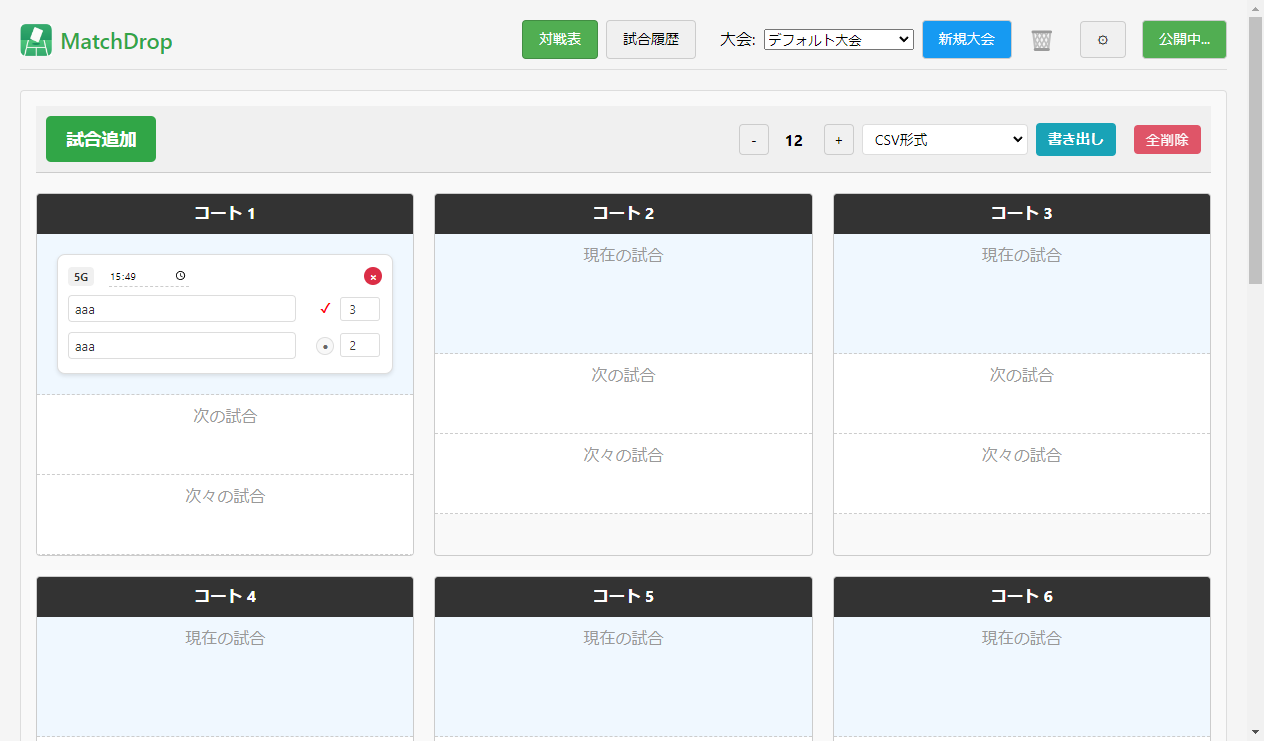
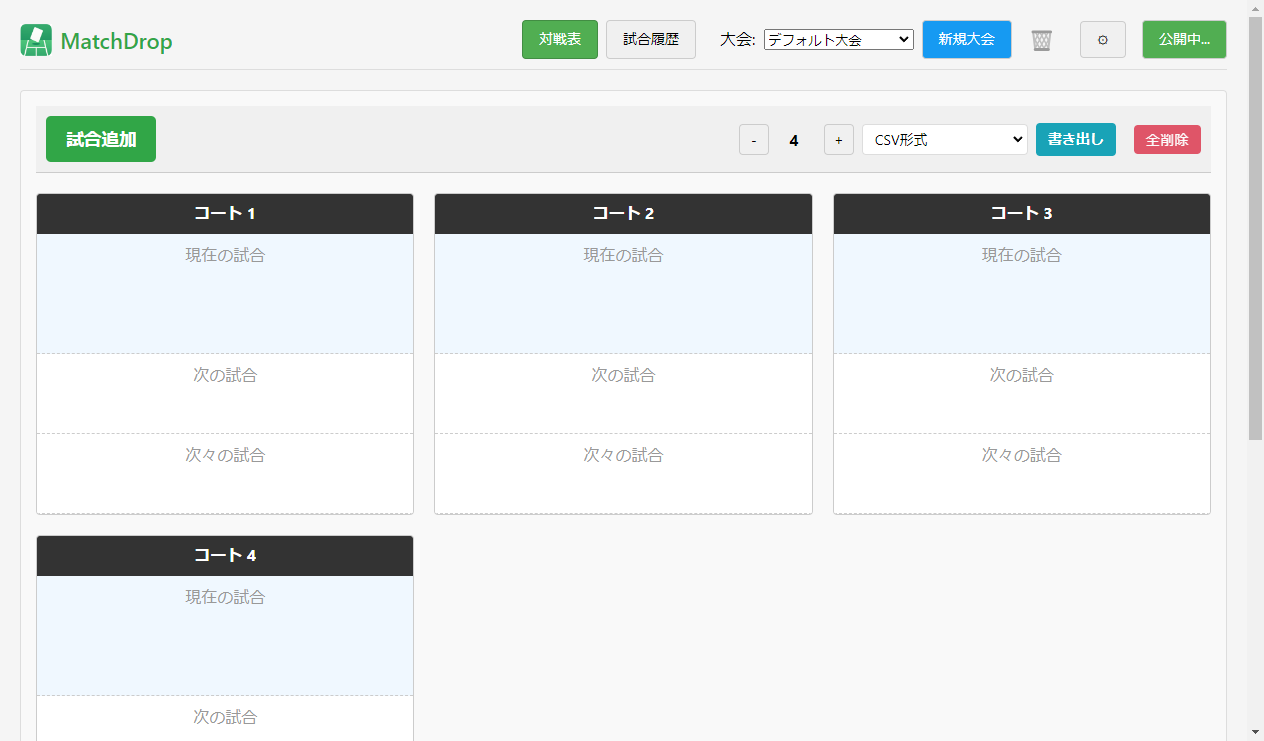
auto: deploy static site 2025-07-16T07:02:03.737Z

diff --git a/board-view.html b/board-view.html
@@ -5,7 +5,7 @@
           <button id="add-match-btn" class="add-match-btn-prominent" style="pointer-events: auto; cursor: pointer; opacity: 1;">試合追加</button>
           <div class="court-count-controls" style="margin-left:auto; margin-right:8px;">
             <button id="decrease-courts-btn">-</button>
-            <span id="court-count-display" class="court-count-display">12</span>
+            <span id="court-count-display" class="court-count-display">4</span>
             <button id="increase-courts-btn">+</button>
           </div>
           
@@ -20,7 +20,7 @@
           
           <button id="delete-all-matches-btn" class="delete-all-btn">全削除</button>
       </div>
-      <div id="court-grid" class="court-grid"><div class="court-slot" data-court-number="1"><div class="court-header"><span class="court-name-edit" data-court-number="1">コート 1</span></div><div class="court-rows"><div class="court-row current-row" data-row-type="current"><div class="row-placeholder" style="display: none;">現在の試合</div><div class="card-container"><div class="match-card" id="match-1" draggable="true" data-match-id="1"><div class="match-card-header"><span class="delete-button" title="この試合を削除">×</span><div class="match-card-game-format-display" title="試合形式は変更できません。変更する場合は新規に試合を作成してください。ダブルクリックで試合を完了して履歴に移動します。">5G</div><input type="time" class="match-end-time-input"></div><div class="match-card-players-container"><div class="match-card-player"><input type="text" class="player-name-input" data-player="A"><div style="display: flex; align-items: center; gap: 4px; margin-left: auto;"><div class="win-label win-check" data-player="A" style="color: red; font-weight: bold;">✔</div><div style="display: flex; flex-direction: column; align-items: center; gap: 2px;"><input type="number" min="0" max="99" class="score-input" data-player="A"></div></div></div><div class="match-card-player"><input type="text" class="player-name-input" data-player="B"><div style="display: flex; align-items: center; gap: 4px; margin-left: auto;"><div class="win-label win-button" data-player="B">●</div><div style="display: flex; flex-direction: column; align-items: center; gap: 2px;"><input type="number" min="0" max="99" class="score-input" data-player="B"><div class="tiebreak-score-container-b" style="display: inline-block;"></div></div></div></div><div class="tiebreak-row" style="display: none; justify-content: flex-end; gap: 8px; margin-left: auto;"><span style="display: none;"><div class="tiebreak-score-container-a" style="display: inline-block; margin-top: 2px;"><span style="font-size: 0.8em;">(</span><input type="number" min="0" max="99" class="tiebreak-score-input" data-tiebreak="A" placeholder="TB" tabindex="0" style="width: 40px; height: 20px; font-size: 0.8em; padding: 0px 2px; pointer-events: auto; cursor: text;"><span style="font-size: 0.8em;">)</span></div></span></div></div></div></div></div><div class="court-row next-row" data-row-type="next"><div class="row-placeholder">次の試合</div><div class="card-container"></div></div><div class="court-row next2-row" data-row-type="next2"><div class="row-placeholder">次々の試合</div><div class="card-container"></div></div></div></div><div class="court-slot" data-court-number="2"><div class="court-header"><span class="court-name-edit" data-court-number="2">コート 2</span></div><div class="court-rows"><div class="court-row current-row" data-row-type="current"><div class="row-placeholder">現在の試合</div><div class="card-container"></div></div><div class="court-row next-row" data-row-type="next"><div class="row-placeholder">次の試合</div><div class="card-container"></div></div><div class="court-row next2-row" data-row-type="next2"><div class="row-placeholder">次々の試合</div><div class="card-container"></div></div></div></div><div class="court-slot" data-court-number="3"><div class="court-header"><span class="court-name-edit" data-court-number="3">コート 3</span></div><div class="court-rows"><div class="court-row current-row" data-row-type="current"><div class="row-placeholder">現在の試合</div><div class="card-container"></div></div><div class="court-row next-row" data-row-type="next"><div class="row-placeholder">次の試合</div><div class="card-container"></div></div><div class="court-row next2-row" data-row-type="next2"><div class="row-placeholder">次々の試合</div><div class="card-container"></div></div></div></div><div class="court-slot" data-court-number="4"><div class="court-header"><span class="court-name-edit" data-court-number="4">コート 4</span></div><div class="court-rows"><div class="court-row current-row" data-row-type="current"><div class="row-placeholder">現在の試合</div><div class="card-container"></div></div><div class="court-row next-row" data-row-type="next"><div class="row-placeholder">次の試合</div><div class="card-container"></div></div><div class="court-row next2-row" data-row-type="next2"><div class="row-placeholder">次々の試合</div><div class="card-container"></div></div></div></div><div class="court-slot" data-court-number="5"><div class="court-header"><span class="court-name-edit" data-court-number="5">コート 5</span></div><div class="court-rows"><div class="court-row current-row" data-row-type="current"><div class="row-placeholder">現在の試合</div><div class="card-container"></div></div><div class="court-row next-row" data-row-type="next"><div class="row-placeholder">次の試合</div><div class="card-container"></div></div><div class="court-row next2-row" data-row-type="next2"><div class="row-placeholder">次々の試合</div><div class="card-container"></div></div></div></div><div class="court-slot" data-court-number="6"><div class="court-header"><span class="court-name-edit" data-court-number="6">コート 6</span></div><div class="court-rows"><div class="court-row current-row" data-row-type="current"><div class="row-placeholder">現在の試合</div><div class="card-container"></div></div><div class="court-row next-row" data-row-type="next"><div class="row-placeholder">次の試合</div><div class="card-container"></div></div><div class="court-row next2-row" data-row-type="next2"><div class="row-placeholder">次々の試合</div><div class="card-container"></div></div></div></div><div class="court-slot" data-court-number="7"><div class="court-header"><span class="court-name-edit" data-court-number="7">コート 7</span></div><div class="court-rows"><div class="court-row current-row" data-row-type="current"><div class="row-placeholder">現在の試合</div><div class="card-container"></div></div><div class="court-row next-row" data-row-type="next"><div class="row-placeholder">次の試合</div><div class="card-container"></div></div><div class="court-row next2-row" data-row-type="next2"><div class="row-placeholder">次々の試合</div><div class="card-container"></div></div></div></div><div class="court-slot" data-court-number="8"><div class="court-header"><span class="court-name-edit" data-court-number="8">コート 8</span></div><div class="court-rows"><div class="court-row current-row" data-row-type="current"><div class="row-placeholder">現在の試合</div><div class="card-container"></div></div><div class="court-row next-row" data-row-type="next"><div class="row-placeholder">次の試合</div><div class="card-container"></div></div><div class="court-row next2-row" data-row-type="next2"><div class="row-placeholder">次々の試合</div><div class="card-container"></div></div></div></div><div class="court-slot" data-court-number="9"><div class="court-header"><span class="court-name-edit" data-court-number="9">コート 9</span></div><div class="court-rows"><div class="court-row current-row" data-row-type="current"><div class="row-placeholder">現在の試合</div><div class="card-container"></div></div><div class="court-row next-row" data-row-type="next"><div class="row-placeholder">次の試合</div><div class="card-container"></div></div><div class="court-row next2-row" data-row-type="next2"><div class="row-placeholder">次々の試合</div><div class="card-container"></div></div></div></div><div class="court-slot" data-court-number="10"><div class="court-header"><span class="court-name-edit" data-court-number="10">コート 10</span></div><div class="court-rows"><div class="court-row current-row" data-row-type="current"><div class="row-placeholder">現在の試合</div><div class="card-container"></div></div><div class="court-row next-row" data-row-type="next"><div class="row-placeholder">次の試合</div><div class="card-container"></div></div><div class="court-row next2-row" data-row-type="next2"><div class="row-placeholder">次々の試合</div><div class="card-container"></div></div></div></div><div class="court-slot" data-court-number="11"><div class="court-header"><span class="court-name-edit" data-court-number="11">コート 11</span></div><div class="court-rows"><div class="court-row current-row" data-row-type="current"><div class="row-placeholder">現在の試合</div><div class="card-container"></div></div><div class="court-row next-row" data-row-type="next"><div class="row-placeholder">次の試合</div><div class="card-container"></div></div><div class="court-row next2-row" data-row-type="next2"><div class="row-placeholder">次々の試合</div><div class="card-container"></div></div></div></div><div class="court-slot" data-court-number="12"><div class="court-header"><span class="court-name-edit" data-court-number="12">コート 12</span></div><div class="court-rows"><div class="court-row current-row" data-row-type="current"><div class="row-placeholder">現在の試合</div><div class="card-container"></div></div><div class="court-row next-row" data-row-type="next"><div class="row-placeholder">次の試合</div><div class="card-container"></div></div><div class="court-row next2-row" data-row-type="next2"><div class="row-placeholder">次々の試合</div><div class="card-container"></div></div></div></div></div>
+      <div id="court-grid" class="court-grid"><div class="court-slot" data-court-number="1"><div class="court-header"><span class="court-name-edit" data-court-number="1">コート 1</span></div><div class="court-rows"><div class="court-row current-row" data-row-type="current"><div class="row-placeholder">現在の試合</div><div class="card-container"></div></div><div class="court-row next-row" data-row-type="next"><div class="row-placeholder">次の試合</div><div class="card-container"></div></div><div class="court-row next2-row" data-row-type="next2"><div class="row-placeholder">次々の試合</div><div class="card-container"></div></div></div></div><div class="court-slot" data-court-number="2"><div class="court-header"><span class="court-name-edit" data-court-number="2">コート 2</span></div><div class="court-rows"><div class="court-row current-row" data-row-type="current"><div class="row-placeholder">現在の試合</div><div class="card-container"></div></div><div class="court-row next-row" data-row-type="next"><div class="row-placeholder">次の試合</div><div class="card-container"></div></div><div class="court-row next2-row" data-row-type="next2"><div class="row-placeholder">次々の試合</div><div class="card-container"></div></div></div></div><div class="court-slot" data-court-number="3"><div class="court-header"><span class="court-name-edit" data-court-number="3">コート 3</span></div><div class="court-rows"><div class="court-row current-row" data-row-type="current"><div class="row-placeholder">現在の試合</div><div class="card-container"></div></div><div class="court-row next-row" data-row-type="next"><div class="row-placeholder">次の試合</div><div class="card-container"></div></div><div class="court-row next2-row" data-row-type="next2"><div class="row-placeholder">次々の試合</div><div class="card-container"></div></div></div></div><div class="court-slot" data-court-number="4"><div class="court-header"><span class="court-name-edit" data-court-number="4">コート 4</span></div><div class="court-rows"><div class="court-row current-row" data-row-type="current"><div class="row-placeholder">現在の試合</div><div class="card-container"></div></div><div class="court-row next-row" data-row-type="next"><div class="row-placeholder">次の試合</div><div class="card-container"></div></div><div class="court-row next2-row" data-row-type="next2"><div class="row-placeholder">次々の試合</div><div class="card-container"></div></div></div></div></div>
       
       <!-- 未割当のカード用の枠 -->
       <div class="unassigned-section">

diff --git a/dist-web/board-view.html b/dist-web/board-view.html
@@ -5,7 +5,7 @@
           <button id="add-match-btn" class="add-match-btn-prominent" style="pointer-events: auto; cursor: pointer; opacity: 1;">試合追加</button>
           <div class="court-count-controls" style="margin-left:auto; margin-right:8px;">
             <button id="decrease-courts-btn">-</button>
-            <span id="court-count-display" class="court-count-display">12</span>
+            <span id="court-count-display" class="court-count-display">4</span>
             <button id="increase-courts-btn">+</button>
           </div>
           
@@ -20,7 +20,7 @@
           
           <button id="delete-all-matches-btn" class="delete-all-btn">全削除</button>
       </div>
-      <div id="court-grid" class="court-grid"><div class="court-slot" data-court-number="1"><div class="court-header"><span class="court-name-edit" data-court-number="1">コート 1</span></div><div class="court-rows"><div class="court-row current-row" data-row-type="current"><div class="row-placeholder" style="display: none;">現在の試合</div><div class="card-container"><div class="match-card" id="match-1" draggable="true" data-match-id="1"><div class="match-card-header"><span class="delete-button" title="この試合を削除">×</span><div class="match-card-game-format-display" title="試合形式は変更できません。変更する場合は新規に試合を作成してください。ダブルクリックで試合を完了して履歴に移動します。">5G</div><input type="time" class="match-end-time-input"></div><div class="match-card-players-container"><div class="match-card-player"><input type="text" class="player-name-input" data-player="A"><div style="display: flex; align-items: center; gap: 4px; margin-left: auto;"><div class="win-label win-check" data-player="A" style="color: red; font-weight: bold;">✔</div><div style="display: flex; flex-direction: column; align-items: center; gap: 2px;"><input type="number" min="0" max="99" class="score-input" data-player="A"></div></div></div><div class="match-card-player"><input type="text" class="player-name-input" data-player="B"><div style="display: flex; align-items: center; gap: 4px; margin-left: auto;"><div class="win-label win-button" data-player="B">●</div><div style="display: flex; flex-direction: column; align-items: center; gap: 2px;"><input type="number" min="0" max="99" class="score-input" data-player="B"><div class="tiebreak-score-container-b" style="display: inline-block;"></div></div></div></div><div class="tiebreak-row" style="display: none; justify-content: flex-end; gap: 8px; margin-left: auto;"><span style="display: none;"><div class="tiebreak-score-container-a" style="display: inline-block; margin-top: 2px;"><span style="font-size: 0.8em;">(</span><input type="number" min="0" max="99" class="tiebreak-score-input" data-tiebreak="A" placeholder="TB" tabindex="0" style="width: 40px; height: 20px; font-size: 0.8em; padding: 0px 2px; pointer-events: auto; cursor: text;"><span style="font-size: 0.8em;">)</span></div></span></div></div></div></div></div><div class="court-row next-row" data-row-type="next"><div class="row-placeholder">次の試合</div><div class="card-container"></div></div><div class="court-row next2-row" data-row-type="next2"><div class="row-placeholder">次々の試合</div><div class="card-container"></div></div></div></div><div class="court-slot" data-court-number="2"><div class="court-header"><span class="court-name-edit" data-court-number="2">コート 2</span></div><div class="court-rows"><div class="court-row current-row" data-row-type="current"><div class="row-placeholder">現在の試合</div><div class="card-container"></div></div><div class="court-row next-row" data-row-type="next"><div class="row-placeholder">次の試合</div><div class="card-container"></div></div><div class="court-row next2-row" data-row-type="next2"><div class="row-placeholder">次々の試合</div><div class="card-container"></div></div></div></div><div class="court-slot" data-court-number="3"><div class="court-header"><span class="court-name-edit" data-court-number="3">コート 3</span></div><div class="court-rows"><div class="court-row current-row" data-row-type="current"><div class="row-placeholder">現在の試合</div><div class="card-container"></div></div><div class="court-row next-row" data-row-type="next"><div class="row-placeholder">次の試合</div><div class="card-container"></div></div><div class="court-row next2-row" data-row-type="next2"><div class="row-placeholder">次々の試合</div><div class="card-container"></div></div></div></div><div class="court-slot" data-court-number="4"><div class="court-header"><span class="court-name-edit" data-court-number="4">コート 4</span></div><div class="court-rows"><div class="court-row current-row" data-row-type="current"><div class="row-placeholder">現在の試合</div><div class="card-container"></div></div><div class="court-row next-row" data-row-type="next"><div class="row-placeholder">次の試合</div><div class="card-container"></div></div><div class="court-row next2-row" data-row-type="next2"><div class="row-placeholder">次々の試合</div><div class="card-container"></div></div></div></div><div class="court-slot" data-court-number="5"><div class="court-header"><span class="court-name-edit" data-court-number="5">コート 5</span></div><div class="court-rows"><div class="court-row current-row" data-row-type="current"><div class="row-placeholder">現在の試合</div><div class="card-container"></div></div><div class="court-row next-row" data-row-type="next"><div class="row-placeholder">次の試合</div><div class="card-container"></div></div><div class="court-row next2-row" data-row-type="next2"><div class="row-placeholder">次々の試合</div><div class="card-container"></div></div></div></div><div class="court-slot" data-court-number="6"><div class="court-header"><span class="court-name-edit" data-court-number="6">コート 6</span></div><div class="court-rows"><div class="court-row current-row" data-row-type="current"><div class="row-placeholder">現在の試合</div><div class="card-container"></div></div><div class="court-row next-row" data-row-type="next"><div class="row-placeholder">次の試合</div><div class="card-container"></div></div><div class="court-row next2-row" data-row-type="next2"><div class="row-placeholder">次々の試合</div><div class="card-container"></div></div></div></div><div class="court-slot" data-court-number="7"><div class="court-header"><span class="court-name-edit" data-court-number="7">コート 7</span></div><div class="court-rows"><div class="court-row current-row" data-row-type="current"><div class="row-placeholder">現在の試合</div><div class="card-container"></div></div><div class="court-row next-row" data-row-type="next"><div class="row-placeholder">次の試合</div><div class="card-container"></div></div><div class="court-row next2-row" data-row-type="next2"><div class="row-placeholder">次々の試合</div><div class="card-container"></div></div></div></div><div class="court-slot" data-court-number="8"><div class="court-header"><span class="court-name-edit" data-court-number="8">コート 8</span></div><div class="court-rows"><div class="court-row current-row" data-row-type="current"><div class="row-placeholder">現在の試合</div><div class="card-container"></div></div><div class="court-row next-row" data-row-type="next"><div class="row-placeholder">次の試合</div><div class="card-container"></div></div><div class="court-row next2-row" data-row-type="next2"><div class="row-placeholder">次々の試合</div><div class="card-container"></div></div></div></div><div class="court-slot" data-court-number="9"><div class="court-header"><span class="court-name-edit" data-court-number="9">コート 9</span></div><div class="court-rows"><div class="court-row current-row" data-row-type="current"><div class="row-placeholder">現在の試合</div><div class="card-container"></div></div><div class="court-row next-row" data-row-type="next"><div class="row-placeholder">次の試合</div><div class="card-container"></div></div><div class="court-row next2-row" data-row-type="next2"><div class="row-placeholder">次々の試合</div><div class="card-container"></div></div></div></div><div class="court-slot" data-court-number="10"><div class="court-header"><span class="court-name-edit" data-court-number="10">コート 10</span></div><div class="court-rows"><div class="court-row current-row" data-row-type="current"><div class="row-placeholder">現在の試合</div><div class="card-container"></div></div><div class="court-row next-row" data-row-type="next"><div class="row-placeholder">次の試合</div><div class="card-container"></div></div><div class="court-row next2-row" data-row-type="next2"><div class="row-placeholder">次々の試合</div><div class="card-container"></div></div></div></div><div class="court-slot" data-court-number="11"><div class="court-header"><span class="court-name-edit" data-court-number="11">コート 11</span></div><div class="court-rows"><div class="court-row current-row" data-row-type="current"><div class="row-placeholder">現在の試合</div><div class="card-container"></div></div><div class="court-row next-row" data-row-type="next"><div class="row-placeholder">次の試合</div><div class="card-container"></div></div><div class="court-row next2-row" data-row-type="next2"><div class="row-placeholder">次々の試合</div><div class="card-container"></div></div></div></div><div class="court-slot" data-court-number="12"><div class="court-header"><span class="court-name-edit" data-court-number="12">コート 12</span></div><div class="court-rows"><div class="court-row current-row" data-row-type="current"><div class="row-placeholder">現在の試合</div><div class="card-container"></div></div><div class="court-row next-row" data-row-type="next"><div class="row-placeholder">次の試合</div><div class="card-container"></div></div><div class="court-row next2-row" data-row-type="next2"><div class="row-placeholder">次々の試合</div><div class="card-container"></div></div></div></div></div>
+      <div id="court-grid" class="court-grid"><div class="court-slot" data-court-number="1"><div class="court-header"><span class="court-name-edit" data-court-number="1">コート 1</span></div><div class="court-rows"><div class="court-row current-row" data-row-type="current"><div class="row-placeholder">現在の試合</div><div class="card-container"></div></div><div class="court-row next-row" data-row-type="next"><div class="row-placeholder">次の試合</div><div class="card-container"></div></div><div class="court-row next2-row" data-row-type="next2"><div class="row-placeholder">次々の試合</div><div class="card-container"></div></div></div></div><div class="court-slot" data-court-number="2"><div class="court-header"><span class="court-name-edit" data-court-number="2">コート 2</span></div><div class="court-rows"><div class="court-row current-row" data-row-type="current"><div class="row-placeholder">現在の試合</div><div class="card-container"></div></div><div class="court-row next-row" data-row-type="next"><div class="row-placeholder">次の試合</div><div class="card-container"></div></div><div class="court-row next2-row" data-row-type="next2"><div class="row-placeholder">次々の試合</div><div class="card-container"></div></div></div></div><div class="court-slot" data-court-number="3"><div class="court-header"><span class="court-name-edit" data-court-number="3">コート 3</span></div><div class="court-rows"><div class="court-row current-row" data-row-type="current"><div class="row-placeholder">現在の試合</div><div class="card-container"></div></div><div class="court-row next-row" data-row-type="next"><div class="row-placeholder">次の試合</div><div class="card-container"></div></div><div class="court-row next2-row" data-row-type="next2"><div class="row-placeholder">次々の試合</div><div class="card-container"></div></div></div></div><div class="court-slot" data-court-number="4"><div class="court-header"><span class="court-name-edit" data-court-number="4">コート 4</span></div><div class="court-rows"><div class="court-row current-row" data-row-type="current"><div class="row-placeholder">現在の試合</div><div class="card-container"></div></div><div class="court-row next-row" data-row-type="next"><div class="row-placeholder">次の試合</div><div class="card-container"></div></div><div class="court-row next2-row" data-row-type="next2"><div class="row-placeholder">次々の試合</div><div class="card-container"></div></div></div></div></div>
       
       <!-- 未割当のカード用の枠 -->
       <div class="unassigned-section">
